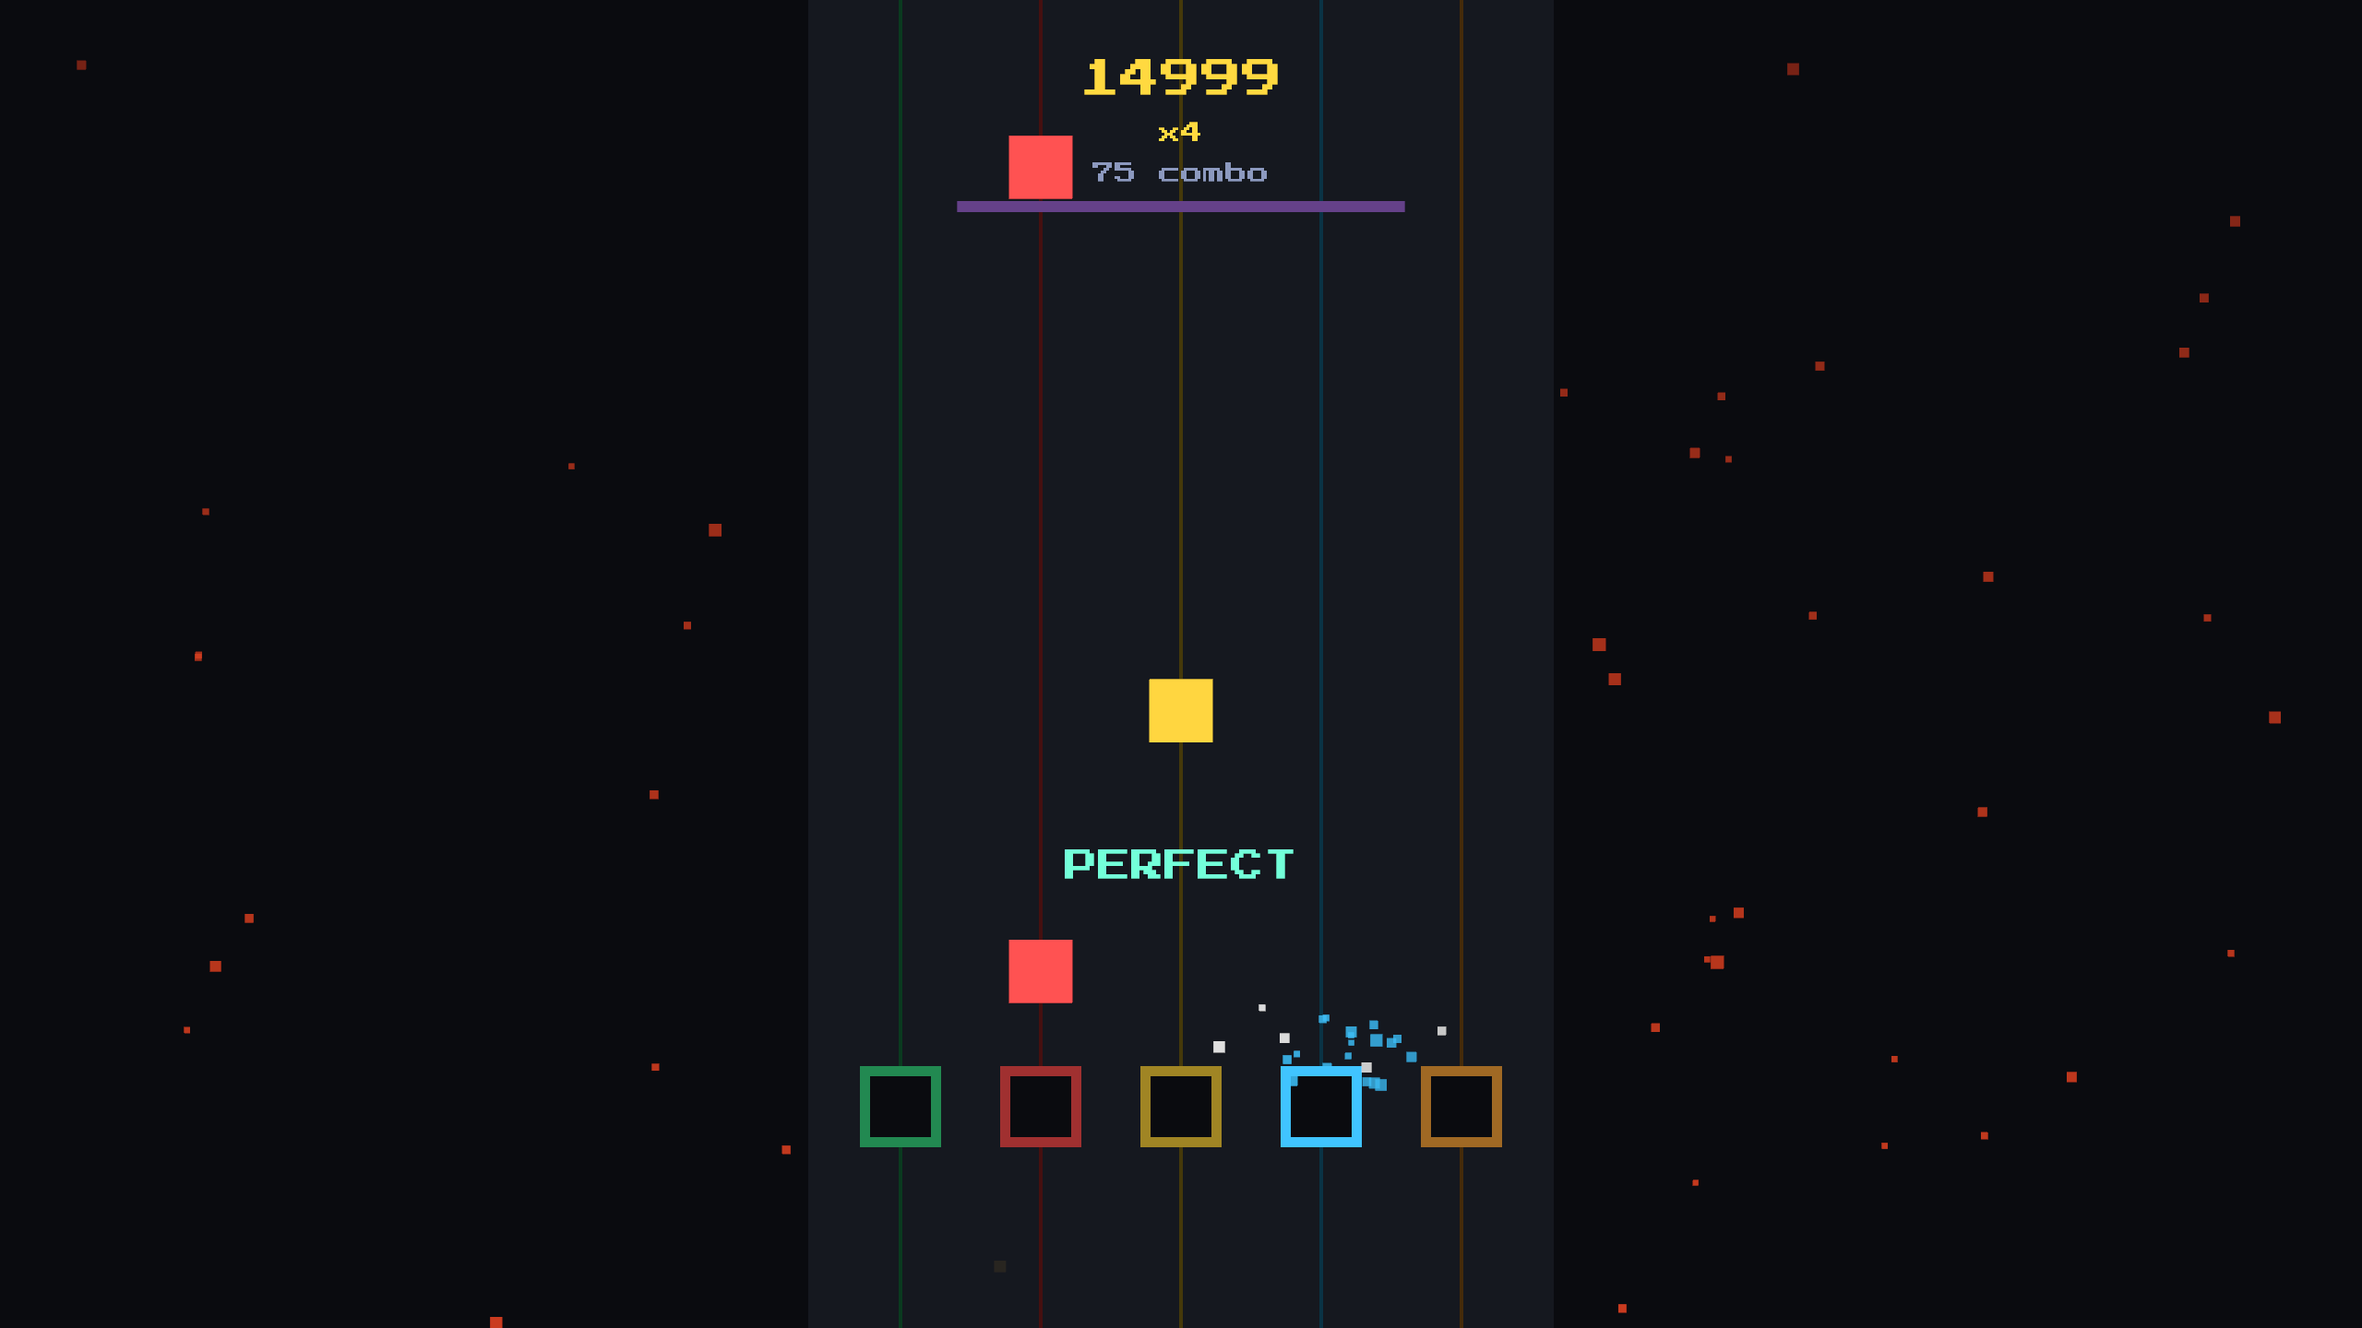
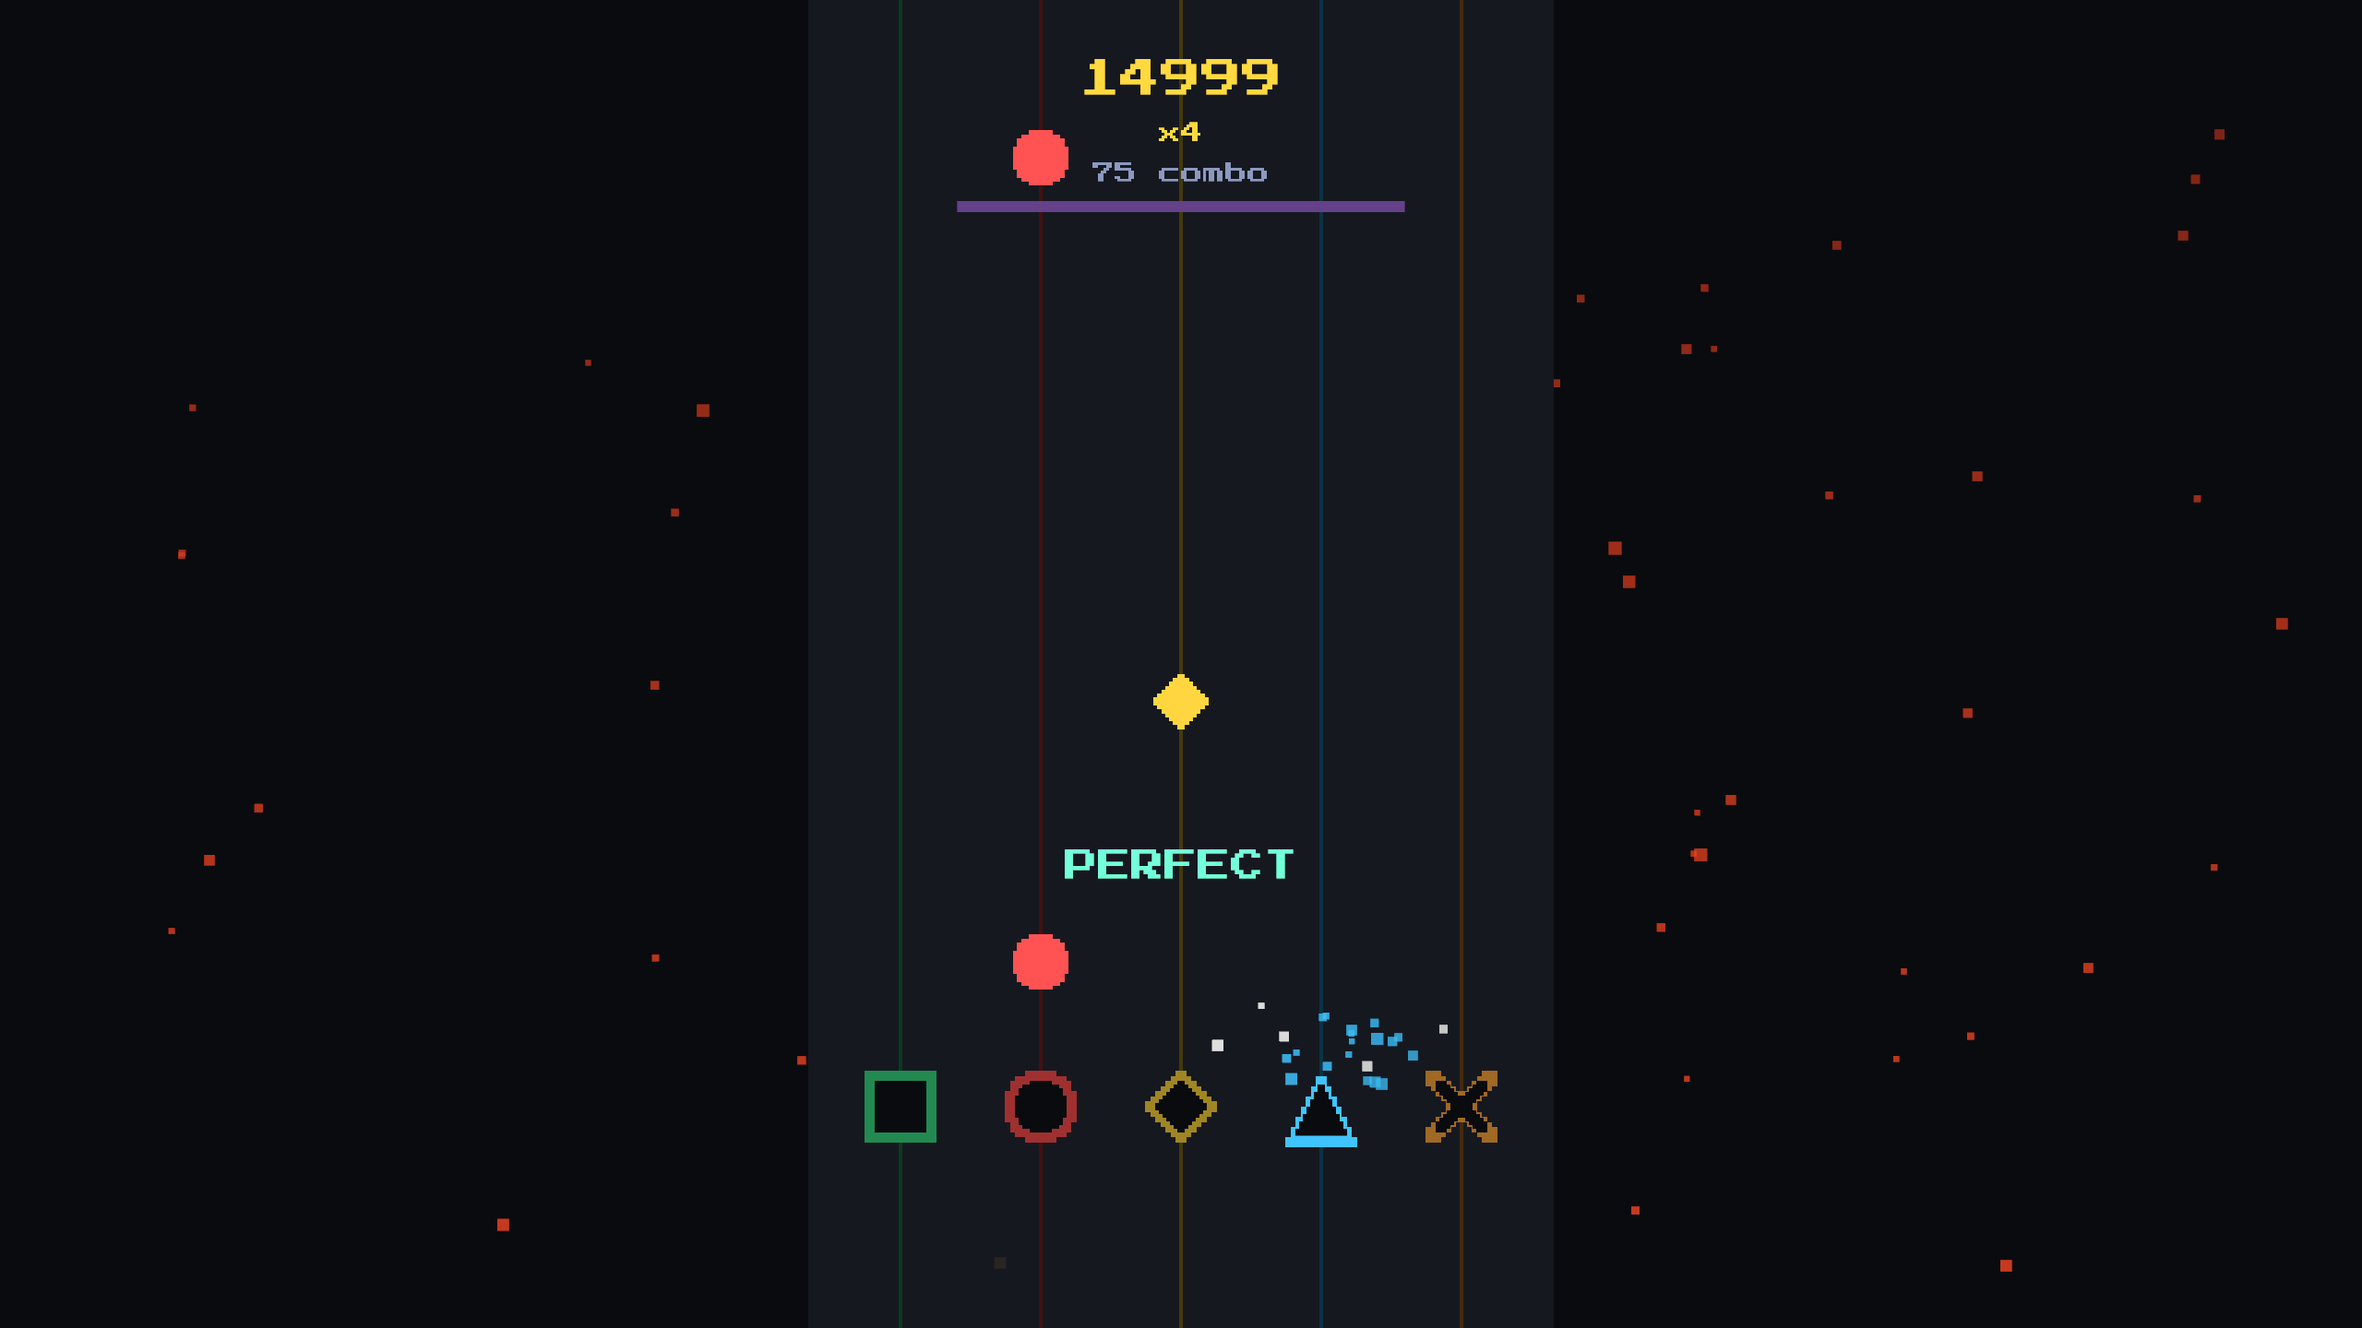
feat: per-lane gem shapes — colorblind-safe lane identity
Roadmap D1. Five distinct generated pixel shapes (square, circle,
diamond, triangle, X) identify lanes on note gems and receptors, so
color is never the only channel. Always on: an accessibility feature
you must find in options first is worse than none, and distinct gems
suit the 8-bit identity anyway. Along the way: HOPOs had no visual
distinction from strum notes at all — they now render smaller with a
bright core.

Verified: flawless autopilot; screenshot with all five shapes on gems
and receptors; a full-desaturation (grayscale) crop keeps every
receptor trivially distinguishable; 3 geometry unit tests (pairwise
distinctness, substance, mirror symmetry); README media refreshed.

Claude-Session: https://claude.ai/code/session_01RiAnqD9KnsEEFje2EFHysk

diff --git a/crates/beatbyte-game/src/shapes.rs b/crates/beatbyte-game/src/shapes.rs
@@ -1,0 +1,164 @@
+//! Per-lane note shapes — color is never the only channel.
+//!
+//! Every lane has a distinct 16×16 pixel-art shape (square, circle,
+//! diamond, triangle, cross), used for note gems and receptors alike.
+//! This is always on: a colorblind player must not have to find an
+//! option before the game is playable, and distinct gems suit the
+//! 8-bit identity anyway. The masks are generated, not drawn — no
+//! assets, and the geometry is unit-tested.
+
+use bevy::asset::RenderAssetUsages;
+use bevy::prelude::*;
+use bevy::render::render_resource::{Extent3d, TextureDimension, TextureFormat};
+
+use beatbyte_core::Lane;
+
+/// Shape mask side length in pixels.
+pub const SHAPE_SIZE: usize = 16;
+
+/// The generated shape images, indexed by lane.
+#[derive(Resource)]
+pub struct LaneShapes([Handle<Image>; 5]);
+
+impl LaneShapes {
+    /// The shape image for a lane.
+    #[must_use]
+    pub fn image(&self, lane: Lane) -> Handle<Image> {
+        self.0[lane as usize].clone()
+    }
+}
+
+/// Builds the shape images at startup.
+pub struct ShapesPlugin;
+
+impl Plugin for ShapesPlugin {
+    fn build(&self, app: &mut App) {
+        app.add_systems(PreStartup, build_shapes);
+    }
+}
+
+fn build_shapes(mut commands: Commands, mut images: ResMut<Assets<Image>>) {
+    let handles: Vec<Handle<Image>> = (0..5)
+        .map(|lane| images.add(mask_to_image(&shape_mask(lane))))
+        .collect();
+    let array: [Handle<Image>; 5] = match handles.try_into() {
+        Ok(array) => array,
+        Err(_) => unreachable!("exactly five shapes are generated"),
+    };
+    commands.insert_resource(LaneShapes(array));
+}
+
+/// The pixel mask for a lane's shape. Pure — the geometry tests live
+/// on this.
+#[must_use]
+pub fn shape_mask(lane: usize) -> [[bool; SHAPE_SIZE]; SHAPE_SIZE] {
+    let mut mask = [[false; SHAPE_SIZE]; SHAPE_SIZE];
+    let center = (SHAPE_SIZE as f32 - 1.0) / 2.0; // 7.5
+    for (y, row) in mask.iter_mut().enumerate() {
+        for (x, cell) in row.iter_mut().enumerate() {
+            let dx = x as f32 - center;
+            let dy = y as f32 - center;
+            *cell = match lane {
+                // Lane 0: square (1 px margin).
+                0 => dx.abs() <= 6.5 && dy.abs() <= 6.5,
+                // Lane 1: circle.
+                1 => dx * dx + dy * dy <= 7.3 * 7.3,
+                // Lane 2: diamond.
+                2 => dx.abs() + dy.abs() <= 7.5,
+                // Lane 3: triangle, point up, base at the bottom.
+                3 => {
+                    let progress = y as f32 / (SHAPE_SIZE as f32 - 1.0);
+                    dy >= -7.0 && dx.abs() <= progress * 7.4
+                }
+                // Lane 4: X cross (thick diagonals).
+                _ => {
+                    let on_diag = (dx - dy).abs() <= 2.2 || (dx + dy).abs() <= 2.2;
+                    on_diag && dx.abs() <= 7.0 && dy.abs() <= 7.0
+                }
+            };
+        }
+    }
+    mask
+}
+
+/// White-on-transparent RGBA image from a mask (tinted by sprite
+/// color at draw time).
+fn mask_to_image(mask: &[[bool; SHAPE_SIZE]; SHAPE_SIZE]) -> Image {
+    let mut data = Vec::with_capacity(SHAPE_SIZE * SHAPE_SIZE * 4);
+    for row in mask {
+        for &on in row {
+            data.extend_from_slice(if on { &[255u8; 4] } else { &[0u8; 4] });
+        }
+    }
+    Image::new(
+        Extent3d {
+            width: SHAPE_SIZE as u32,
+            height: SHAPE_SIZE as u32,
+            depth_or_array_layers: 1,
+        },
+        TextureDimension::D2,
+        data,
+        TextureFormat::Rgba8UnormSrgb,
+        RenderAssetUsages::RENDER_WORLD | RenderAssetUsages::MAIN_WORLD,
+    )
+}
+
+#[cfg(test)]
+#[allow(clippy::unwrap_used)]
+mod tests {
+    use super::{SHAPE_SIZE, shape_mask};
+
+    fn count(mask: &[[bool; SHAPE_SIZE]; SHAPE_SIZE]) -> usize {
+        mask.iter().flatten().filter(|c| **c).count()
+    }
+
+    #[test]
+    fn every_lane_shape_is_substantial() {
+        for lane in 0..5 {
+            let filled = count(&shape_mask(lane));
+            assert!(
+                (40..=220).contains(&filled),
+                "lane {lane}: {filled} pixels — too sparse or a filled block"
+            );
+        }
+    }
+
+    /// The whole point: shapes must be tellable apart WITHOUT color.
+    /// Any two lanes must differ in a meaningful fraction of pixels.
+    #[test]
+    fn shapes_are_pairwise_distinct() {
+        for a in 0..5 {
+            for b in (a + 1)..5 {
+                let (ma, mb) = (shape_mask(a), shape_mask(b));
+                let differing = ma
+                    .iter()
+                    .flatten()
+                    .zip(mb.iter().flatten())
+                    .filter(|(x, y)| x != y)
+                    .count();
+                assert!(
+                    differing >= 30,
+                    "lanes {a} and {b} differ in only {differing} pixels"
+                );
+            }
+        }
+    }
+
+    /// Left-right symmetry keeps every shape readable in any lane
+    /// position (nothing points sideways).
+    #[test]
+    fn shapes_are_horizontally_symmetric() {
+        for lane in 0..5 {
+            let mask = shape_mask(lane);
+            for row in &mask {
+                for x in 0..SHAPE_SIZE / 2 {
+                    assert_eq!(
+                        row[x],
+                        row[SHAPE_SIZE - 1 - x],
+                        "lane {lane} is not mirror-symmetric"
+                    );
+                }
+            }
+        }
+    }
+}

diff --git a/crates/beatbyte-game/src/gameplay/notes.rs b/crates/beatbyte-game/src/gameplay/notes.rs
@@ -40,9 +40,11 @@ pub fn spawn_highways(
     mut commands: Commands,
     layout: Res<HighwayLayout>,
     theme: Res<crate::theme::ActiveTheme>,
+    shapes: Res<crate::shapes::LaneShapes>,
     players: Query<&PlayerIndex, With<PlayerSession>>,
 ) {
     let theme = theme.0;
+    let shapes = &*shapes;
     for index in players.iter() {
         let player = index.0;
         let origin = layout.origin(player);
@@ -64,22 +66,26 @@ pub fn spawn_highways(
                 Transform::from_xyz(layout.lane_x(player, lane), 0.0, -9.0),
             ));
         }
-        // Receptor row: ring look = colored square under a bg square.
+        // Receptor row: ring look = the lane's shape under a smaller
+        // background copy of the same shape. Shapes, not just colors,
+        // identify lanes (colorblind accessibility).
         let receptor = layout.receptor_size();
         for lane in Lane::ALL {
             let x = layout.lane_x(player, lane);
             commands.spawn((
                 GameplayScreen,
                 Receptor { player, lane },
-                Sprite::from_color(
+                shape_sprite(
+                    shapes,
+                    lane,
                     palette::dimmed(theme.lane_color(lane), 0.35),
-                    Vec2::splat(receptor),
+                    receptor,
                 ),
                 Transform::from_xyz(x, RECEPTOR_Y, -5.0),
             ));
             commands.spawn((
                 GameplayScreen,
-                Sprite::from_color(theme.background, Vec2::splat(receptor * 0.75)),
+                shape_sprite(shapes, lane, theme.background, receptor * 0.72),
                 Transform::from_xyz(x, RECEPTOR_Y, -4.0),
             ));
         }
@@ -87,6 +93,7 @@ pub fn spawn_highways(
 }
 
 /// Spawn note entities as their time approaches.
+#[allow(clippy::too_many_arguments)] // Bevy system: params are DI, not an API
 pub fn spawn_due_notes(
     mut commands: Commands,
     mut players: Query<(&PlayerIndex, &mut PlayerSession)>,
@@ -95,6 +102,7 @@ pub fn spawn_due_notes(
     game_clock: Res<GameClock>,
     time: Res<Time>,
     settings: Res<Settings>,
+    shapes: Res<crate::shapes::LaneShapes>,
 ) {
     let Some(now) = game_clock.song_time(&time) else {
         return;
@@ -112,6 +120,7 @@ pub fn spawn_due_notes(
                 &mut commands,
                 &layout,
                 &theme.0,
+                &shapes,
                 index.0,
                 cursor,
                 &event,
@@ -127,14 +136,19 @@ fn spawn_event_sprites(
     commands: &mut Commands,
     layout: &HighwayLayout,
     theme: &crate::theme::Theme,
+    shapes: &crate::shapes::LaneShapes,
     player: usize,
     event_index: usize,
     event: &beatbyte_core::NoteEvent,
     scroll_speed: f32,
 ) {
     let size = layout.note_size();
+    let hopo = matches!(event.kind, beatbyte_core::NoteKind::Hopo);
     for lane in event.lanes.iter() {
         let color = theme.lane_color(lane);
+        // HOPOs render smaller with a bright core — until now they
+        // looked identical to strums, which hid the mechanic.
+        let gem = if hopo { size * 0.78 } else { size };
         let entity = commands
             .spawn((
                 GameplayScreen,
@@ -143,10 +157,18 @@ fn spawn_event_sprites(
                     event_index,
                     resolved: false,
                 },
-                Sprite::from_color(color, Vec2::splat(size)),
+                shape_sprite(shapes, lane, color, gem),
                 Transform::from_xyz(layout.lane_x(player, lane), 2000.0, 0.0),
             ))
             .id();
+        if hopo {
+            commands.entity(entity).with_children(|parent| {
+                parent.spawn((
+                    shape_sprite(shapes, lane, Color::WHITE.with_alpha(0.85), gem * 0.42),
+                    Transform::from_xyz(0.0, 0.0, 0.5),
+                ));
+            });
+        }
 
         // Sustain tail: extends upward (later in time).
         if event.is_sustain() {
@@ -277,5 +299,15 @@ pub fn apply_note_events(
             note.resolved = true;
             sprite.color = palette::dimmed(sprite.color, 0.25);
         }
+    }
+}
+
+/// A lane-shaped sprite: the generated mask image tinted by `color`.
+fn shape_sprite(shapes: &crate::shapes::LaneShapes, lane: Lane, color: Color, size: f32) -> Sprite {
+    Sprite {
+        image: shapes.image(lane),
+        color,
+        custom_size: Some(Vec2::splat(size)),
+        ..Default::default()
     }
 }

diff --git a/crates/beatbyte-game/src/lib.rs b/crates/beatbyte-game/src/lib.rs
@@ -21,9 +21,10 @@ pub mod results;
 pub mod scores;
 pub mod settings_ui;
 pub mod sfx;
+pub mod shapes;
 pub mod song_select;
 pub mod states;
-pub mod theme;
+mod theme;
 pub mod transition;
 pub mod ui;
 
@@ -122,6 +123,7 @@ pub fn run() -> AppExit {
     .add_sub_state::<GamePhase>()
     .add_systems(Startup, spawn_camera)
     .add_plugins((
+        shapes::ShapesPlugin,
         ui::UiPlugin,
         audio_sys::AudioBridgePlugin,
         config::ConfigPlugin,

diff --git a/docs/ROADMAP.md b/docs/ROADMAP.md
@@ -150,10 +150,10 @@ chart format v1 can be frozen as a promise.
 
 ### D — Accessibility & options
 
-- [ ] D1 **Colorblind-safe lane identity.** Per-lane shapes/symbols on notes + receptors (color no longer the only channel), always on or as an option. *Verify: screenshot; deuteranopia simulation check.*
+- [x] D1 **Colorblind-safe lane identity.** Always-on per-lane shapes (square/circle/diamond/triangle/X) as generated 16×16 pixel masks (`shapes.rs`, pure + 3 geometry tests) on gems AND receptors (shaped rings). Bonus catch: HOPOs had NO visual distinction — now smaller gem + bright core. *Verified: flawless autopilot; screenshot; grayscale (total color removal) keeps all five receptors trivially distinct; README media updated.*
 - [x] D2 **Reduced-motion option.** New `backdrop_motion` setting ("STAGE MOTION" row) wired Settings → EffectSettings → `animate_backdrop` early-out; particles/shake/beat-pulse toggles already existed. *Verified by transform probe: ON = bit drifts continuously, OFF = position bit-identical over 25 s; both runs flawless. Side catch: the verification exposed that a window-closed autopilot run faked exit 0 — harness hardened (DontExit + fail-on-vanished-window).*
 - [x] D3 **Audio mix options.** Already fully implemented (M7-era): `music_volume`/`sfx_volume` settings rows, persisted, music applied centrally in `apply_settings` on any change, SFX per-play. Closed by code-trace audit during C5/D2 work; no change needed.
-- [ ] D4 **Scroll-speed option.** Per-player highway scroll speed independent of difficulty. *Verify: setting persists; autopilot still flawless at extremes (judgment must be unaffected).*
+- [x] D4 **Scroll-speed option.** Global setting existed (240–900 px/s row, persisted); scroll speed touches only note Y/tail height, never judgment. *Verified: identical flawless score (23399) at 240 solo and 900 2P.* Scope amended: per-player speed deferred until a playtest (A1) actually asks for it — speculative multiplayer-UI complexity otherwise.
 
 ### E — Editor v2 (quality-of-life)
 

diff --git a/README.md b/README.md
@@ -31,8 +31,9 @@ one machine.
 </p>
 
 *A flawless run in progress: x4 multiplier, 75-note combo, PERFECT
-popup, hit particles on the blue receptor — with the Metal theme's
-ember backdrop.*
+popup, hit particles on the triangle receptor — with the Metal theme's
+ember backdrop. Every lane has its own shape (square, circle, diamond,
+triangle, cross), so color is never the only signal.*
 
 <p align="center">
   <img src="docs/media/beatbyte-results.png" alt="BeatByte results screen: S rank, 100% accuracy, 117 perfect notes" width="800"/>
@@ -42,6 +43,9 @@ ember backdrop.*
 
 - 🎸 **Classic five-lane gameplay** — single notes, chords, sustains,
   hammer-ons/pull-offs, combos, multipliers and the Hype meter
+- ♿ **Colorblind-safe by default** — every lane has a distinct gem
+  shape on notes and receptors; a Stage Motion setting stills the
+  backdrop for reduced motion
 - 🎵 **Bring your own music** — WAV / OGG / FLAC / MP3 / M4A; drop generated
   charts into `songs/` and they appear in the browser
 - 🤖 **Automatic chart generation** — BPM & onset analysis turns any song

diff --git a/CHANGELOG.md b/CHANGELOG.md
@@ -9,6 +9,13 @@ and this project adheres to [Semantic Versioning](https://semver.org/spec/v2.0.0
 
 ### Added
 
+- **Per-lane gem shapes** (square, circle, diamond, triangle, cross)
+  on notes and receptors — color is never the only lane signal
+  (colorblind accessibility, always on). Generated pixel-art masks,
+  no assets; geometry unit-tested.
+- **HOPOs are finally visible**: smaller gem with a bright core
+  (they rendered identically to strum notes before).
+
 - **Stage Motion setting** (reduced-motion accessibility): turning it
   off leaves the themed backdrop as a still image; particles, screen
   shake and beat pulse already had their own toggles.
